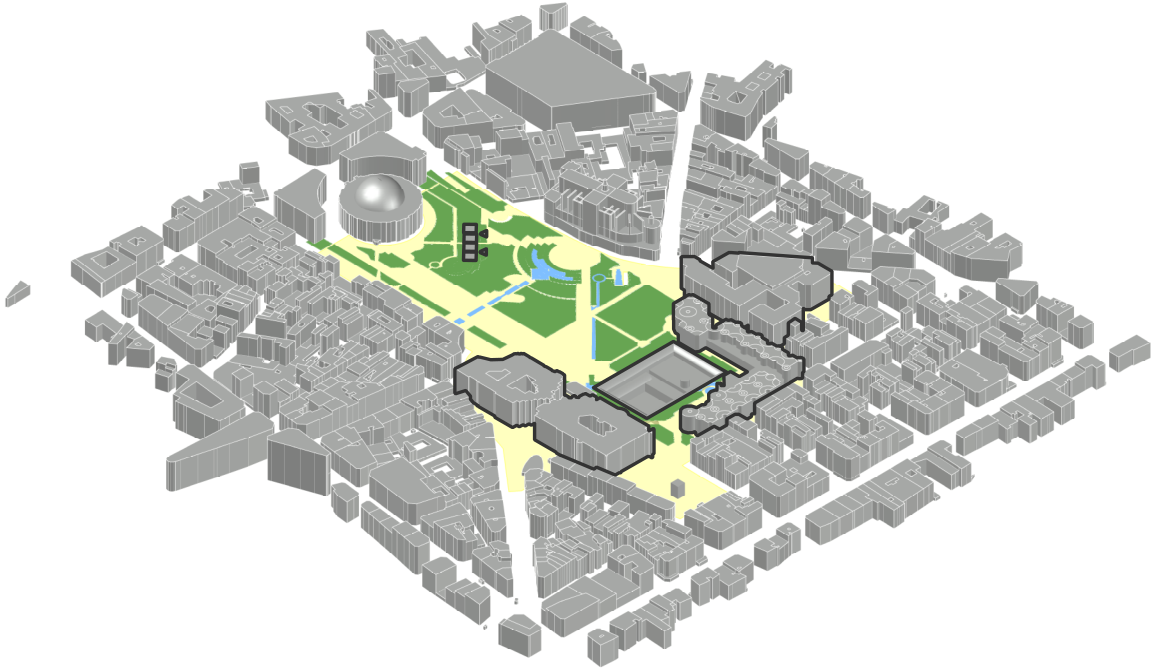
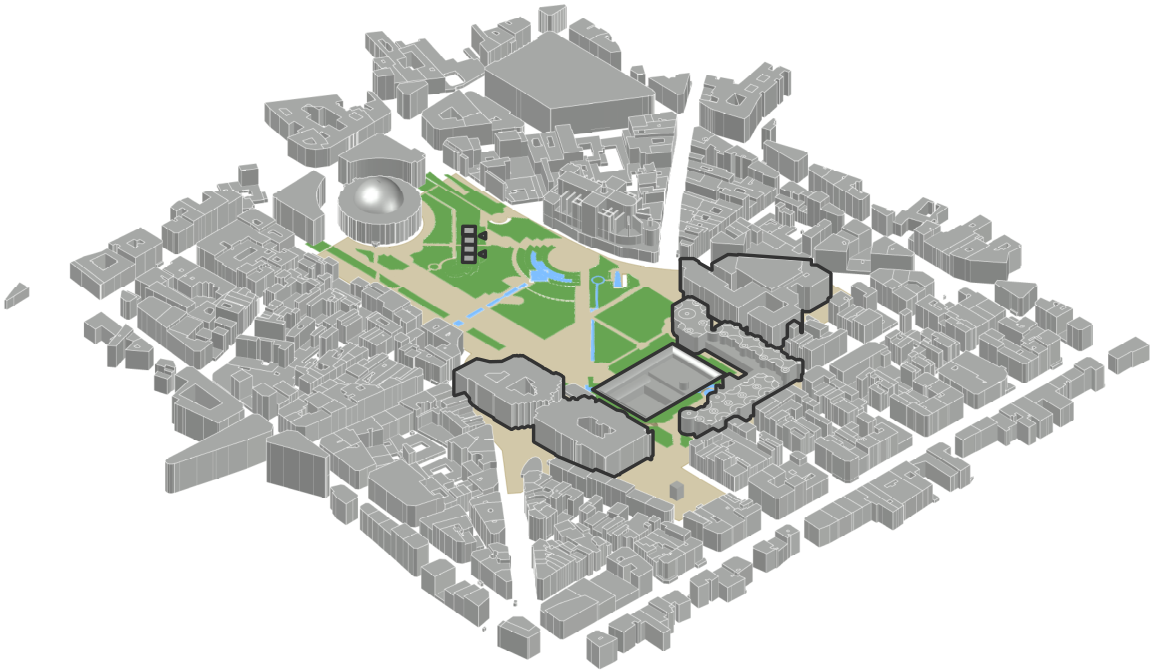
Update timeline years to strings and reorder images

diff --git a/components/sections/architectural-timeline-section.tsx b/components/sections/architectural-timeline-section.tsx
@@ -5,7 +5,7 @@ import Image from "next/image";
 import { ChevronLeft, ChevronRight } from "lucide-react";
 
 interface TimelineState {
-  year: number;
+  year: string;
   image: string;
   caption: string;
   description: string;
@@ -13,51 +13,50 @@ interface TimelineState {
 
 const timelineStates: TimelineState[] = [
   {
-    year: 1850,
+    year: "1800-1850",
     image: "/axonometrias/axonometria0.png",
     caption: "Before Baltard",
     description:
       "Les Halles were still a chaotic cluster of small open-air markets surrounded by medieval streets. Population growth and public hygiene were major concerns. The city’s authorities began planning a complete reconstruction of the market district. Early attempts failed for financial reasons, but the idea of transforming the area into a more rational, accessible market space was already taking shape. Only minor change occurred between 1800 and 1850, with no money to expropriate the inhabitants of this old neighborhood.",
   },
   {
-    year: 1855,
+    year: "1904",
     image: "/axonometrias/axonometria 1.png",
     caption: "The Haussmannian transformation",
     description:
       "In 1851, Victor Baltard was commissioned by Napoleon III to rebuild the market. His first heavy stone pavilion was rejected, and replaced by a revolutionary system of iron and glass, inspired by Paxton’s Crystal Palace and his competitors’ projects. Twelve pavilions were constructed progressively until the end of the century and into the next, until the end of the Second World War, mainly because of chronic lacks of fund, while surrounding streets were straightened or created to integrate them within Haussmann’s new grid.",
   },
   {
-    year: 1870,
+    year: "1904-1969",
     image: "/axonometrias/axonometria2.png",
     caption: "The 19th-century Halles",
     description:
       "The pavilions were among the first in Paris to use both steel-framed roofs and façades. They offered light, ventilation, and easy circulation. Its design follows the function but pastiches from roman, gothic and renaissance could be seen. Writers like Émile Zola described it as “the belly of Paris,” an architectural symbol of the modern city. At that time, modernization was associated with progress, not destruction. The old fabric was replaced almost without regret; the critics were positives about the change.",
   },
-
   {
-    year: 1971,
-    image: "/axonometrias/axonometria4.png",
+    year: "1973",
+    image: "/axonometrias/axonometria3.png",
     caption: "Demolition",
     description:
       "Designed for one million inhabitants in 1857, Les Halles rapidly became obsolete as Paris grew to 2.6 million by 1900. Overcrowding and outdated hygiene standards made the markets unsuitable for a modern metropolis. In 1962, the decision was taken to relocate wholesale trade to Rungis, completed in 1969. Despite strong opposition from citizens, architects, and intellectuals, the demolition of the pavilions began in 1971. Only one pavilion was preserved and relocated to Nogent-sur-Marne, while the rest of the site was cleared, leaving a vast void in the centre of Paris.",
   },
   {
-    year: 1975,
-    image: "/axonometrias/axonometria5.png",
+    year: "1973-1977",
+    image: "/axonometrias/axonometria4.png",
     caption: "The Void",
     description:
       "The destruction created, “the hole of Les Halles.” Beneath this void, the new underground train station for the RER network was being built, opening in 1977. On the surface, nothing remained. The debate over what to build next divided architects, politicians, and citizens for years.",
   },
   {
-    year: 1980,
-    image: "/axonometrias/axonometria6.png",
+    year: "1977-1986",
+    image: "/axonometrias/axonometria5.png",
     caption: "Construction of the Forum des Halles",
     description:
       "In 1973, the project by architects Claude Vasconi and Georges Pencréac’h was selected, later completed by Paul Chemetov. The new complex buried most of its program underground: shops, cinema, and transport, while the surface was turned into a garden. The Forum des Halles became one of the most frequented spaces in Paris. Renovation and rehabilitation were done around Les Halles, leading to an unprecedented gentrification.",
   },
   {
-    year: 2010,
-    image: "/axonometrias/axonometria7.png",
+    year: "2016-Nowadays",
+    image: "/axonometrias/axonometria6.png",
     caption: "The Canopée des Halles",
     description:
       "By the early 2000s, the Forum des Halles was considered obsolete, criticized for its lack of clarity, poor lighting, and weak relationship with the city above. The garden and the underground commercial spaces no longer responded to contemporary urban expectations. In 2004, the City of Paris launched an international competition to redesign the site. The project by Patrick Berger and Jacques Anziutti was selected, proposing a large glass and steel roof called La Canopée to cover the central void of the Forum. Construction began in 2010. The Canopée was inaugurated in 2016, bringing natural light back to the underground spaces and redefining Les Halles as a central metropolitan hub rather than a market.",
